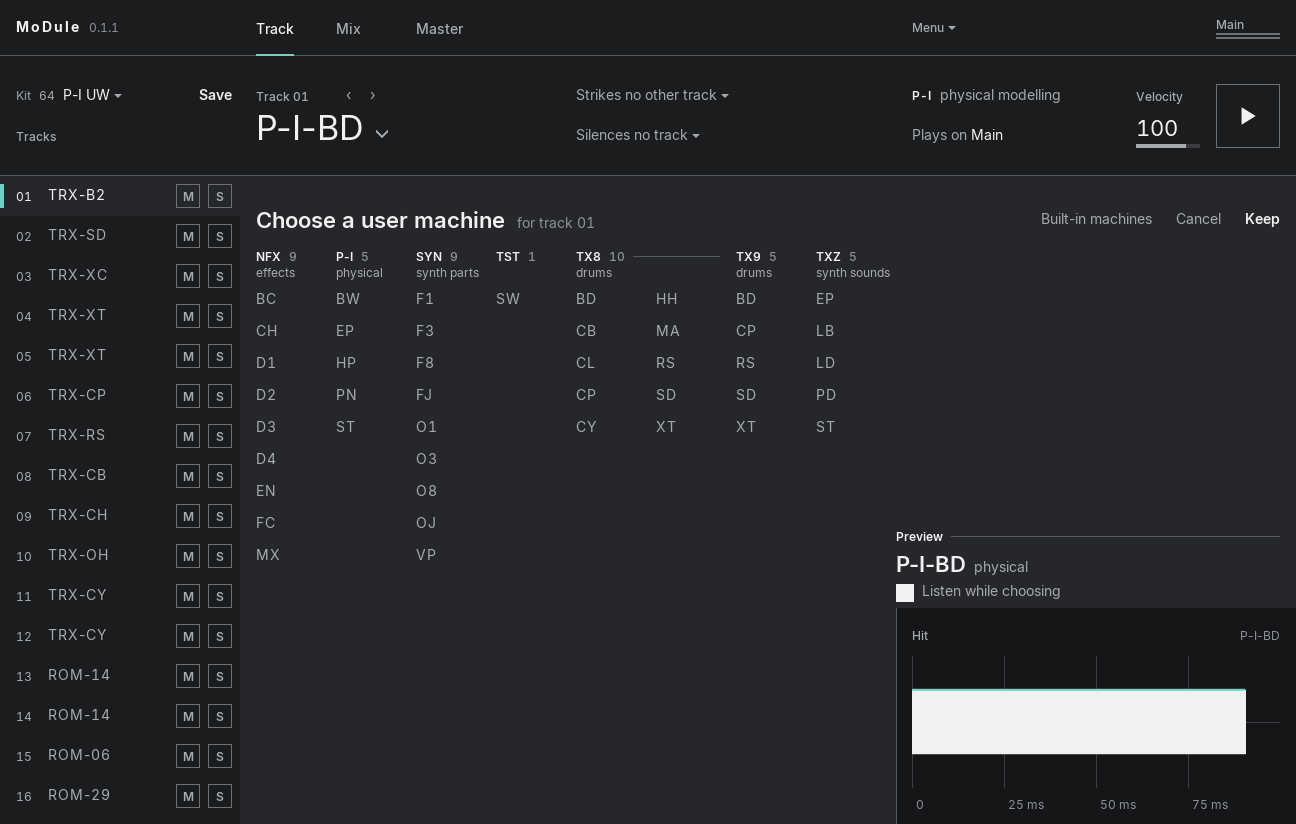
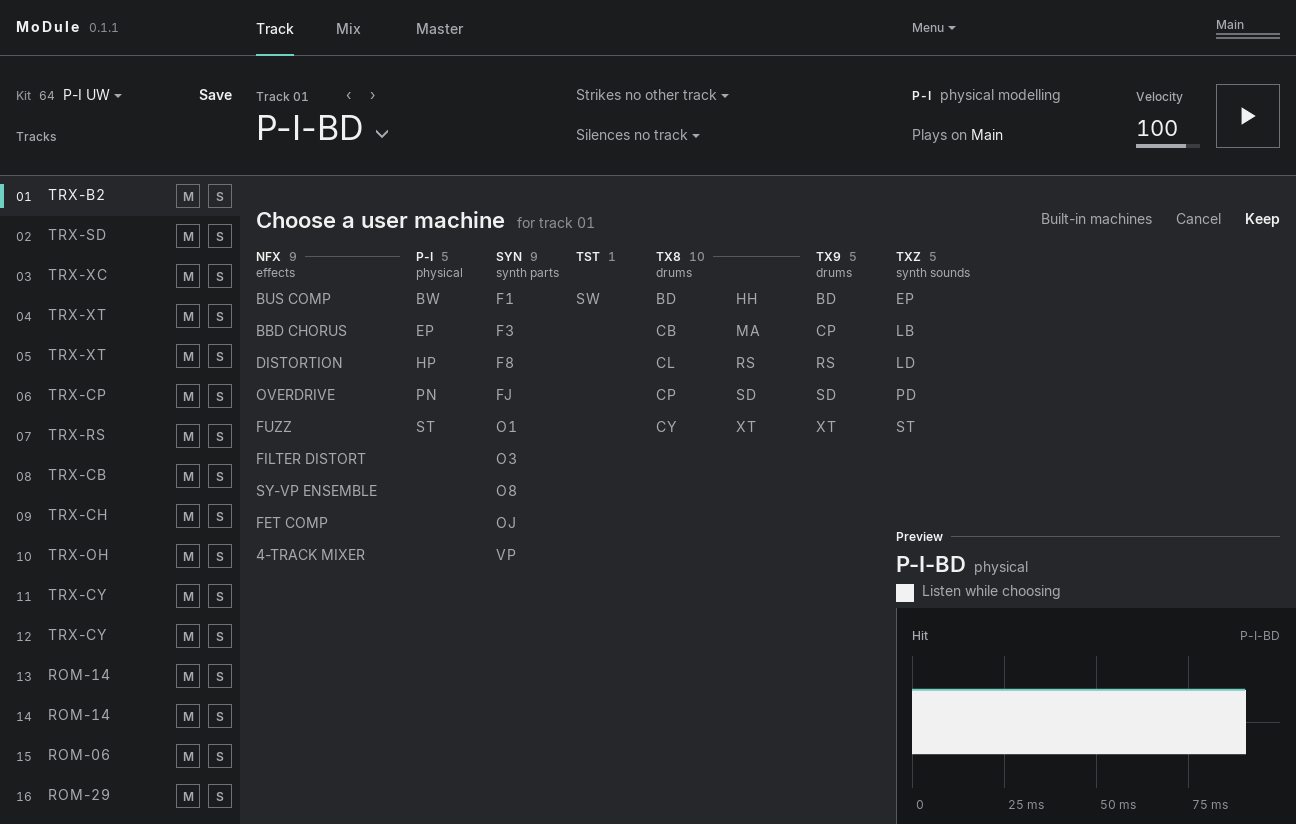
Name the effects in the Library, and chart choosing what an NFX hears
The user asked for clearer names for the effects: their codes (BC, CH, D1...) say little. The cells of the NFX family
now say each package's name (BUS COMP, BBD CHORUS, DISTORTION, OVERDRIVE, FUZZ, FILTER DISTORT, SY-VP ENSEMBLE, FET COMP,
4-TRACK MIXER), two columns wide and without tracking so that sixteen capitals fit; the other families keep their
codes. A family the families' eight columns cannot take goes on to the right, above the preview, when it holds seven
rows or fewer. With MD_X20_MACHINES and MD_DRUMS_SKIN_PNG, mdDrumsSkinTest says any cell whose name runs out of it;
none of X.20 B's 43 does.

The user also chose to let an NFX hear any Track rather than reorder the Tracks, which would leave notes, Live's
automation and the sequences on their numbers: tickets 29 (what the voice DSP needs), 30 (the choice in the editor)
and 31 (the build) on the User Machines map.

diff --git a/source/elektron/md/mdDrumsPlugin/mdDrumsLibraryView.cpp b/source/elektron/md/mdDrumsPlugin/mdDrumsLibraryView.cpp
@@ -137,9 +137,14 @@ namespace mdDrums
 			while(end < m_machines.size() && m_machines[end]->category == category)
 				++end;
 			const auto count = static_cast<int>(end - first);
-			const auto columns = (count + Rows - 1) / Rows;
-			const auto rows = (count + columns - 1) / columns;
-			if(column + columns > Columns)
+			const auto* kind = kindOf(category);
+			// The effects by name, a cell two columns wide
+			const auto named = std::string(kind) == "effects";
+			const auto width = named ? 2 : 1;
+			const auto cellColumns = (count + Rows - 1) / Rows;
+			const auto rows = (count + cellColumns - 1) / cellColumns;
+			const auto columns = cellColumns * width;
+			if(column + columns > Columns + RightColumns || (column + columns > Columns && rows > RightRows))
 				break;
 
 			auto head = document->CreateElement("div");
@@ -149,7 +154,7 @@ namespace mdDrums
 			head->SetInnerRML("<span>" + Rml::StringUtilities::EncodeRml(category) + "<span class=\"count\">"
 				+ std::to_string(count) + "</span></span>" + (columns > 1 ? "<div class=\"line\"/>" : ""));
 			m_library->AppendChild(std::move(head));
-			if(const auto* kind = kindOf(category); *kind)
+			if(*kind)
 			{
 				auto line = document->CreateElement("div");
 				line->SetClassNames("a kind");
@@ -163,10 +168,12 @@ namespace mdDrums
 			{
 				const auto index = first + static_cast<size_t>(i);
 				auto cell = document->CreateElement("div");
-				cell->SetClassNames("a mach");
-				cell->SetProperty("left", dp(g_left + g_column * (column + i / rows)));
+				cell->SetClassNames(named ? "a mach named" : "a mach");
+				cell->SetProperty("left", dp(g_left + g_column * (column + i / rows * width)));
 				cell->SetProperty("top", dp(g_top + g_row * (i % rows)));
-				cell->SetInnerRML(Rml::StringUtilities::EncodeRml(m_machines[index]->code));
+				const auto& package = *m_machines[index];
+				cell->SetInnerRML(Rml::StringUtilities::EncodeRml(named && !package.name.empty() ? package.name
+					: package.code));
 				juceRmlUi::EventListener::AddClick(cell.get(), [this, index] { choose(index); });
 				m_cells.push_back(m_library->AppendChild(std::move(cell)));
 			}

diff --git a/source/elektron/md/mdDrumsPlugin/mdDrumsLibraryView.h b/source/elektron/md/mdDrumsPlugin/mdDrumsLibraryView.h
@@ -25,8 +25,10 @@ namespace mdDrums
 	// user's choice of 2026-10-20, "comme pour le premier menu"): the package's category at the head with its count and
 	// what kind of Machines it holds, its code in each cell, 9 rows to a column at most, a longer family shared evenly
 	// over two or more columns under one head; a click puts the Track shown on it (Processor::chooseUserMachine), heard
-	// when listening; "Built-in machines" and Esc go back. The cells are made again when the Library changes; the one
-	// the Track plays is lit.
+	// when listening; "Built-in machines" and Esc go back. The effects' cells say their package's name, two columns wide
+	// (BUS COMP, BBD CHORUS: their codes say little; the user's wish of 2026-10-20). Families go on to the right of the
+	// families' columns, above the preview, when they hold 7 rows or fewer. The cells are made again when the Library
+	// changes; the one the Track plays is lit.
 	class LibraryView
 	{
 	public:
@@ -52,6 +54,8 @@ namespace mdDrums
 
 		static constexpr int Rows = 9;		// 288 to 544 dp, as the built-in families' longest column
 		static constexpr int Columns = 8;	// c4 to c11: the families' columns
+		static constexpr int RightColumns = 5;	// c12 to c16, above the preview
+		static constexpr int RightRows = 7;		// 288 to 480 dp, above the preview's head at 528
 
 	private:
 		bool build();

diff --git a/source/elektron/md/mdDrumsPlugin/mdDrumsSkinTest.cpp b/source/elektron/md/mdDrumsPlugin/mdDrumsSkinTest.cpp
@@ -1746,6 +1746,12 @@ namespace
 		_f.showView("browser");
 		_f.editor->getLibraryView()->show(true);
 		_f.step(300);
+		_f.layout();
+		auto& library = *_f.editor->getLibraryView();
+		for(size_t i = 0; library.cell(i); ++i)
+			if(library.cell(i)->GetScrollWidth() > _f.box(*library.cell(i)).w + 0.5f)
+				std::printf("library: \"%s\" runs out of its cell, %g of %g dp\n",
+					library.cell(i)->GetInnerRML().c_str(), library.cell(i)->GetScrollWidth(), _f.box(*library.cell(i)).w);
 		save("library");
 		_f.editor->getLibraryView()->show(false);
 		_f.showView("track");

diff --git a/.scratch/user-machines/map.md b/.scratch/user-machines/map.md
@@ -17,6 +17,9 @@ vérifié à la main). Pas de tag : 0.1.2 sort à la demande de l'utilisateur, a
 - Décidé au cadrage du 2026-10-17 :
   - cette carte ne couvre que X.20 ; Push mappé se fait dans une session à part, sans carte ;
   - « firmware X.20 » veut dire ici les Machines utilisateur, hébergées depuis l'ABI MDS publiée, sans l'OS X.20 ;
+  - une NFX entend les Tracks que l'utilisateur choisit, pas seulement celles d'avant (choix du 2026-10-20 « Choisir la
+    source », plutôt que réordonner les Tracks, qui laisserait notes, automation et séquences sur leurs numéros) :
+    tickets 29 à 31 ;
   - 16 Machines utilisateur, USR-01 à USR-16, numérotées comme X.20 ; révisé le 2026-10-20 (l'utilisateur veut
     toutes les Machines d'X.20 sous la main, dans un menu secondaire) : la Library sans limite, seize numéros par Kit
     que MoDule donne lui-même, un Kit du Bank qui se souvient des siens (tickets 24 à 28) ;
@@ -108,11 +111,15 @@ vérifié à la main). Pas de tag : 0.1.2 sort à la demande de l'utilisateur, a
   sinon celui de la Track, sinon le premier libre ; un numéro vide joue muet, rien pris de la Library.
 - [Copier les 43 du zip X.20 dans la Library de l'utilisateur](issues/28-copier-les-43.md) : fait ; sur son seul PC.
 - [Le menu secondaire des Machines utilisateur](issues/26-menu-secondaire.md) : comme le premier menu, au choix de
-  l'utilisateur ; « all 43 installed » sous USR, familles de neuf rangées au plus avec leur genre, le code dans la case.
+  l'utilisateur ; « all 43 installed » sous USR, familles de neuf rangées au plus avec leur genre, le code dans la case,
+  le nom pour les effets.
 - [Un Kit du Bank se souvient de ses Machines utilisateur](issues/27-kit-du-bank-et-ses-machines.md) : construit ;
   `Bank.machines` à côté du Bank, l'id et le nom du paquet par numéro ; rechargé, il les reprend, ou dit ce qui manque.
 
 ## Not yet specified
+
+- Une NFX qui travaille dès qu'on la choisit : aujourd'hui sa Track doit être frappée une fois (la voix prend le type au
+  Hit), à chaque ouverture du set. Proposé à l'utilisateur le 2026-10-20, sans réponse encore.
 
 - STEREO PAIR (rôle à Y+9, aucune des 43 ne le pose, [research/11](research/11-mdm1-flags.md)) : après NEIGHBOUR,
   que l'utilisateur a voulu le 2026-10-19 (tickets 19 à 23 : les tampons des voisins, le délai face aux Hits

diff --git a/.scratch/user-machines/issues/29-sources-d-une-nfx.md b/.scratch/user-machines/issues/29-sources-d-une-nfx.md
@@ -1,0 +1,25 @@
+# Ce que la DSP des voix doit faire pour qu'une NFX entende n'importe quelle Track
+
+Type: research
+Status: open
+Assignee:
+Blocked by:
+
+## Question
+
+Le 2026-10-20, l'utilisateur veut mettre un effet sur n'importe quelle Track (« comment je fais pour router une piste vers
+les pistes d'effets ? », puis le choix « Choisir la source » plutôt que réordonner les Tracks). Aujourd'hui une Machine
+NEIGHBOUR entend les une à quatre Tracks d'avant, par l'anneau de quatre tampons et le descripteur de Y:`$7F0`
+(research/12, ticket 22). Établir ce qu'il faut pour qu'elle entende des Tracks choisies, sans réordonner :
+
+- où mettre seize tampons de 32 mots, un par Track, dans la mémoire de la DSP des voix ; ce que coûte d'y écrire la voix
+  de chaque Track (cycles par bloc, la marge de research/04) ;
+- ce que lisent les 13 paquets NEIGHBOUR du zip (le descripteur, mot par mot ; NFX-MX et NFX-EN qui lisent quatre en
+  arrière, et leur propre tampon avant d'écrire) : peut-on leur donner un descripteur dont « un en arrière » pointe la
+  Track choisie, sans rien changer à leur code ;
+- une source rendue après l'effet dans le bloc : ce qu'elle lui donne (le bloc d'avant, 32 échantillons plus tôt), ce que
+  devient le délai de la Track d'avant que prend une NEIGHBOUR (ticket 20), et l'aperçu (ticket 21) ;
+- ce que fait X.20 s'il permet un tel choix ;
+- ce qui garde le chemin d'aujourd'hui (les Tracks d'avant) pour un set qui ne choisit rien.
+
+Un document `research/14-sources-d-une-nfx.md`, mêmes marques [V] [M] [I] que research/12 ; rien de construit.

diff --git a/.scratch/user-machines/issues/26-menu-secondaire.md b/.scratch/user-machines/issues/26-menu-secondaire.md
@@ -50,4 +50,10 @@ du zip d'X.20) :
   physical (P-I), synth parts (SYN), d'après les noms des 43 (TX-8 BASS DRUM, BBD CHORUS, E PIANO, SX-1 VCO...) ; aucune
   pour une famille que MoDule ne connaît pas.
 
+Puis, le même jour : « ok go, pour les effets ca serait bien d'avoir des noms plus clairs ». Les cases des effets
+(NFX) disent le nom du paquet (BUS COMP, BBD CHORUS, DISTORTION, OVERDRIVE, FUZZ, FILTER DISTORT, SY-VP ENSEMBLE, FET
+COMP, 4-TRACK MIXER), deux colonnes de large, sans approche, pour que seize capitales tiennent ; leurs codes (BC, CH,
+D1...) ne disaient rien. Une famille qui n'a plus de place dans les colonnes des familles continue à droite, au-dessus de
+la prévisualisation, si elle tient en sept rangées.
+
 La capture est celle de ce rangement.

diff --git a/.scratch/user-machines/issues/30-choisir-la-source.md b/.scratch/user-machines/issues/30-choisir-la-source.md
@@ -1,0 +1,14 @@
+# Choisir les Tracks qu'entend une NFX
+
+Type: prototype
+Status: open
+Assignee:
+Blocked by: 29
+
+## Question
+
+Une Track qui joue une Machine NEIGHBOUR dit, dans sa bande de tête, quelle Track elle entend (« Hears track 03 »),
+comme les lignes Link et Choke ; un menu sur l'écran Hit y choisit la Track, ou les quatre d'une NFX qui en mélange
+quatre (NFX-MX, NFX-EN : T-1 à T-4). Par défaut, les Tracks d'avant, comme aujourd'hui. Où ce choix vit (une valeur du
+Kit comme les Links, dans l'état du set, dans `Bank.machines` avec le Kit), ce que montre la ligne quand la source vient
+après l'effet (un bloc plus tard), et ce que voit Push. Un prototype dans le skin à juger par l'utilisateur, au pas de 4.

diff --git a/.scratch/user-machines/issues/31-construire-les-sources.md b/.scratch/user-machines/issues/31-construire-les-sources.md
@@ -1,0 +1,14 @@
+# Construire le choix des sources d'une NFX
+
+Type: task
+Status: open
+Assignee:
+Blocked by: 29, 30
+
+## Question
+
+Construire ce que « Ce que la DSP des voix doit faire pour qu'une NFX entende n'importe quelle Track » établit et ce que
+« Choisir les Tracks qu'entend une NFX » fait choisir : les tampons et les descripteurs, le choix gardé où le prototype
+l'a mis, la ligne et le menu. Tests : une NFX en Track 12 qui entend la Track 3, bit pour bit avec la copieuse de
+`mdDrumsTestMachine.h` ; une source rendue après l'effet, un bloc plus tard ; un set sans choix qui sonne comme
+avant ; la latence note→son et le CPU, avant et après.
